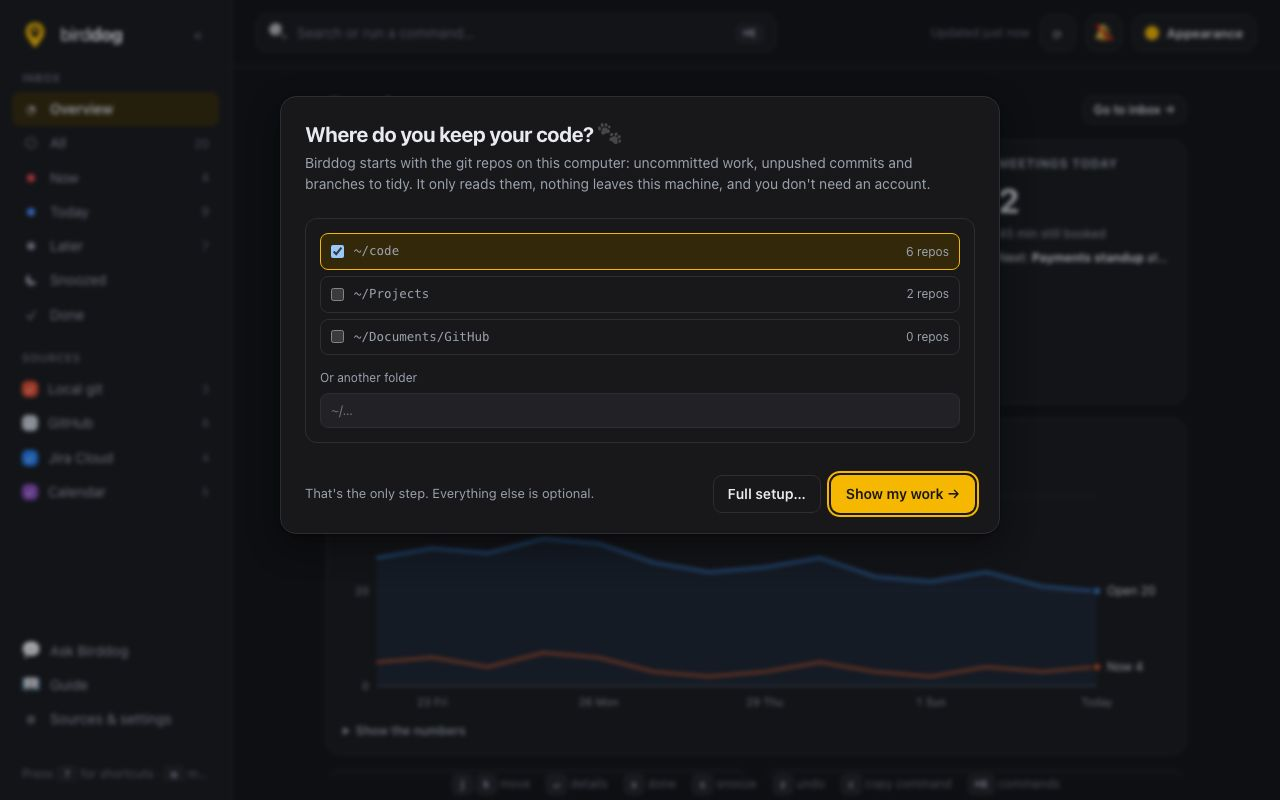
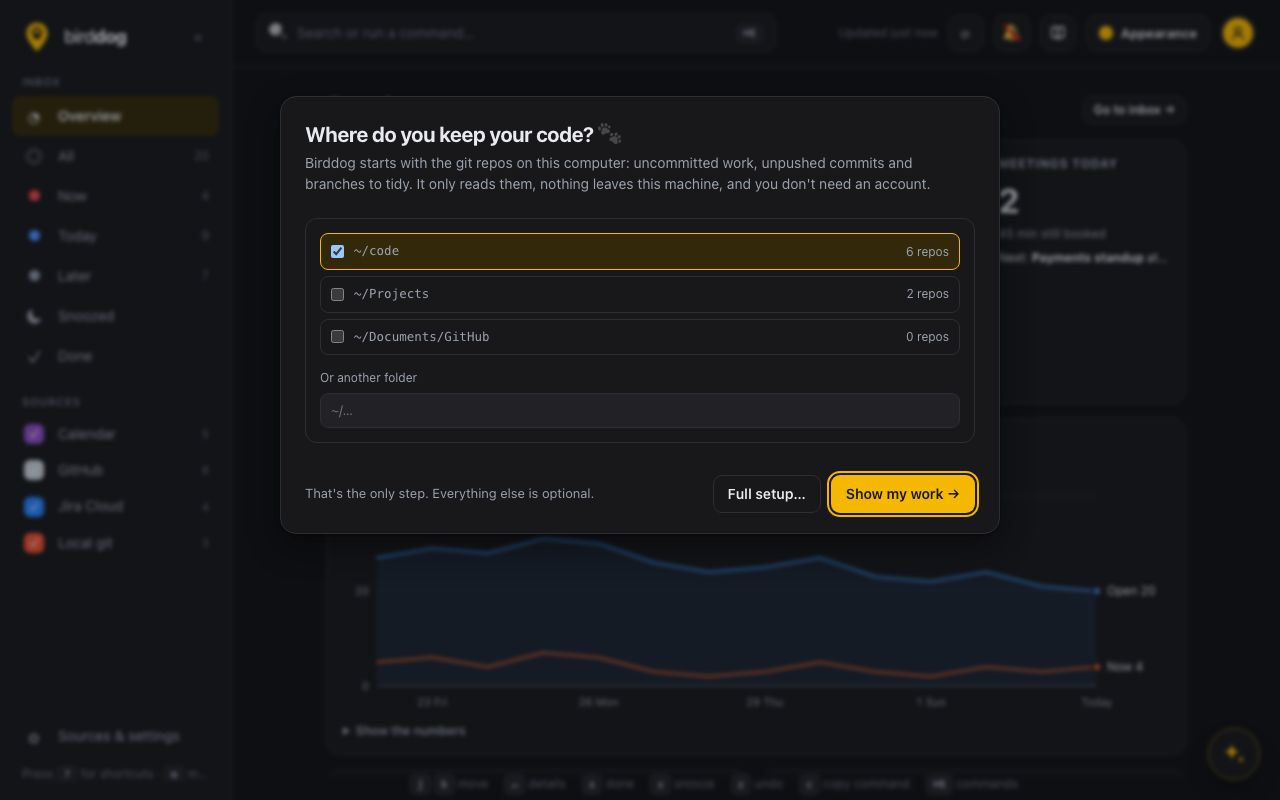
v1.10.0: Fetch, the floating chat assistant
- Ask Birddog becomes "Ask Fetch" (the dog that fetches answers) in the UI, guide, README,
  CHANGELOG, the system prompt and the demo's scripted replies. API routes and code identifiers stay.
- A round ✦ sparkle button (SVG, accent colour, every palette, light/dark) in the bottom-right
  corner, "Ask Fetch (a)", aria-expanded tracking the panel. The chat entry left the left rail.
- The chat opens as a 400×560 floating panel anchored bottom-right above the button; on phones
  (≤760px) it is a full-screen sheet. Consent/API-key flow, Confirm/Cancel, streaming and `a` unchanged.
- The button sits beside a docked guide, and hides while the floating guide or the item drawer
  covers that corner. The shortcut bar stops short of it, toasts rise above it on phones, and
  the page has bottom room so it never hides the last row.
- Guide screenshots regenerated (npm run screenshots, demo data only).

Checked with headless Chromium at 1440, 1100, 900 and 375px, light and dark, rail open/collapsed,
guide open/closed: no overlap with the shortcut bar, no page errors.

Decisions:
- The button stays visible (as the toggle) while the panel is open on desktop; on phones the
  sheet covers it and the header ✕ closes it.
- No drag-to-resize for the panel (marked optional); max-height follows the window.

diff --git a/public/js/chat.js b/public/js/chat.js
@@ -1,4 +1,4 @@
-// "Ask Birddog": the chat panel. The server talks to Claude; this streams the
+// "Ask Fetch": the chat panel. The server talks to Claude; this streams the
 // answer in, shows which inbox tools ran, and asks before any change.
 
 import { esc } from './format.js';
@@ -18,7 +18,8 @@ export function initChat(options) { ctx = options; }
 export async function openChat() {
   $('#chatPanel').classList.add('open');
   document.body.classList.add('chat-open');
-  if (!status) $('#chatPanel').innerHTML = '<header><div class="chat-title"><b>Ask Birddog</b></div><button class="icon-btn" data-chat="close" aria-label="Close chat">✕</button></header><div class="chat-body"><div class="msg-note">Loading…</div></div>';
+  $('#chatBtn')?.setAttribute('aria-expanded', 'true');
+  if (!status) $('#chatPanel').innerHTML = '<header><div class="chat-title"><b>Ask Fetch</b></div><button class="icon-btn" data-chat="close" aria-label="Close chat">✕</button></header><div class="chat-body"><div class="msg-note">Loading…</div></div>';
   try { status = await ctx.api.chatStatus(); } catch (err) { status = { enabled: false, error: err.message }; }
   render();
   $('#chatInput')?.focus();
@@ -26,6 +27,7 @@ export async function openChat() {
 export function closeChat() {
   $('#chatPanel')?.classList.remove('open');
   document.body.classList.remove('chat-open');
+  $('#chatBtn')?.setAttribute('aria-expanded', 'false');
 }
 export const toggleChat = () => (chatOpen() ? closeChat() : openChat());
 
@@ -48,15 +50,15 @@ const SUGGESTIONS = ['What needs me now?', 'What should I do first today?', "Wha
 function setupHTML() {
   const docker = !!status?.keyVariable;
   return `<div class="chat-setup">
-    <p><b>Ask questions about your inbox</b> ("what's blocking me?", "anything due tomorrow?"), and ask Birddog to mark things done or snooze them.</p>
-    <div class="chat-warn"><b>This sends inbox content to Anthropic.</b> To answer, Birddog sends your question and the items it looks up (titles, "why" lines, fields and links from git, GitHub, Jira and your calendar) to Anthropic's API, using your own API key. Nothing is sent until you turn this on, and you can turn it off any time.</div>
+    <p><b>Ask questions about your inbox</b> ("what's blocking me?", "anything due tomorrow?"), and ask Fetch to mark things done or snooze them. Fetch is Birddog's assistant: the dog that fetches answers.</p>
+    <div class="chat-warn"><b>This sends inbox content to Anthropic.</b> To answer, Fetch sends your question and the items it looks up (titles, "why" lines, fields and links from git, GitHub, Jira and your calendar) to Anthropic's API, using your own API key. Nothing is sent until you turn this on, and you can turn it off any time.</div>
     ${docker
     ? (status.hasKey ? `<div class="msg good">✓ API key from <code>${esc(status.keyFrom)}</code>.</div>` : `<div class="msg">Set <code>${esc(status.keyVariable)}</code> (or <code>${esc(status.keyVariable)}_FILE</code>) for this container and restart it.</div>`)
     : `<label class="field"><span>Anthropic API key · <a href="https://console.anthropic.com/settings/keys" target="_blank" rel="noopener noreferrer">get one ↗</a></span>
        <input id="chatKey" type="password" autocomplete="off" spellcheck="false" placeholder="${status?.hasKey ? `Saved in ${esc(status.keyFrom)} · leave blank to keep it` : 'sk-ant-…'}"></label>
        <div class="msg">The key is stored in your OS keychain, never in config.json, and never shown again.</div>`}
     <label class="chk"><input type="checkbox" id="chatConsent" ${consentChecked ? 'checked' : ''}><span>I understand that inbox content is sent to Anthropic</span></label>
-    <div class="row-btns"><button class="btn primary" data-chat="enable" ${busy ? 'disabled' : ''}>Turn on Ask Birddog</button></div>
+    <div class="row-btns"><button class="btn primary" data-chat="enable" ${busy ? 'disabled' : ''}>Turn on Ask Fetch</button></div>
     ${status?.error ? `<div class="msg bad">${esc(status.error)}</div>` : ''}
   </div>`;
 }
@@ -69,7 +71,7 @@ function entryHTML(e, i) {
   if (e.role === 'note') return `<div class="msg-note">${esc(e.text)}</div>`;
   if (e.role === 'confirm') {
     const done = e.state && e.state !== 'pending';
-    return `<div class="msg-confirm ${done ? 'answered' : ''}"><div class="lbl">Birddog wants to change your list</div><div>${esc(e.summary)}</div>
+    return `<div class="msg-confirm ${done ? 'answered' : ''}"><div class="lbl">Fetch wants to change your list</div><div>${esc(e.summary)}</div>
       ${done ? `<div class="msg">${e.state === 'yes' ? '✓ Confirmed' : '✕ Cancelled'}</div>` : `<div class="row-btns"><button class="btn primary small" data-chat-yes="${i}">Confirm</button><button class="btn small" data-chat-no="${i}">Cancel</button></div>`}</div>`;
   }
   return '';
@@ -84,7 +86,7 @@ function render() {
   const el = $('#chatPanel');
   if (!el) return;
   const on = status?.enabled;
-  el.innerHTML = `<header><div class="chat-title"><b>Ask Birddog</b>${on ? `<span class="chat-model">${status.demo ? 'demo: a scripted stand-in, not Claude' : esc(status.model)}</span>` : ''}</div>
+  el.innerHTML = `<header><div class="chat-title"><b>Ask Fetch</b>${on ? `<span class="chat-model">${status.demo ? 'demo: a scripted stand-in, not Claude' : esc(status.model)}</span>` : ''}</div>
       ${on ? '<button class="icon-btn" data-chat="new" title="New conversation" aria-label="New conversation">＋</button>' : ''}
       <button class="icon-btn" data-chat="close" aria-label="Close chat">✕</button></header>
     <div class="chat-body" id="chatBody">${on
@@ -187,7 +189,7 @@ export async function onChatEvent(e) {
     e.preventDefault();
     status = await ctx.api.chatOff().catch((err) => ({ ...status, error: err.message }));
     sessionId = null; log.length = 0; consentChecked = false;
-    ctx.toast('Ask Birddog is off. The API key was removed.');
+    ctx.toast('Ask Fetch is off. The API key was removed.');
     render();
     return true;
   }
@@ -195,7 +197,7 @@ export async function onChatEvent(e) {
     busy = true; render();
     try {
       status = await ctx.api.chatSetup({ apiKey: $('#chatKey')?.value ?? '', consent: consentChecked });
-      ctx.toast('✓ Ask Birddog is on');
+      ctx.toast('✓ Ask Fetch is on');
     } catch (err) {
       status = { ...status, error: err.message };
     }

diff --git a/public/index.html b/public/index.html
@@ -33,7 +33,6 @@
     </div>
     <div class="rail-foot">
       <nav class="nav" aria-label="Tools">
-        <button id="chatBtn" title="Ask Birddog (a)" aria-label="Ask Birddog"><span class="ico" aria-hidden="true">💬</span><span class="rl">Ask Birddog</span><kbd class="hint">a</kbd></button>
         <button id="openSetup" title="Sources and settings" aria-label="Sources and settings"><span class="ico" aria-hidden="true">⚙</span><span class="rl">Sources &amp; settings</span></button>
       </nav>
       <div class="rl rail-hint">Press <kbd>?</kbd> for shortcuts · <kbd>m</kbd> menu</div>
@@ -61,7 +60,8 @@
 <div class="keybar" aria-hidden="true"><span><kbd>j</kbd> <kbd>k</kbd> move</span><span><kbd>↵</kbd> details</span><span><kbd>x</kbd> done</span><span><kbd>s</kbd> snooze</span><span><kbd>z</kbd> undo</span><span><kbd>c</kbd> copy command</span><span><kbd>⌘K</kbd> commands</span></div>
 
 <aside class="drawer" id="drawer" aria-label="Item details"></aside>
-<aside class="drawer chat" id="chatPanel" aria-label="Ask Birddog"></aside>
+<aside class="drawer chat" id="chatPanel" role="dialog" aria-label="Ask Fetch"></aside>
+<button class="fetch-fab" id="chatBtn" title="Ask Fetch (a)" aria-label="Ask Fetch (a)" aria-controls="chatPanel" aria-expanded="false"><svg viewBox="0 0 24 24" aria-hidden="true"><path d="M10 2.5c.5 4.6 2.9 7 7.5 7.5-4.6.5-7 2.9-7.5 7.5-.5-4.6-2.9-7-7.5-7.5 4.6-.5 7-2.9 7.5-7.5z"/><path d="M18.5 13.5c.25 2.2 1.3 3.25 3.5 3.5-2.2.25-3.25 1.3-3.5 3.5-.25-2.2-1.3-3.25-3.5-3.5 2.2-.25 3.25-1.3 3.5-3.5z"/></svg></button>
 <div class="snooze" id="snooze" role="menu"></div>
 
 <div class="scrim" id="paletteScrim"><div class="modal palette" role="dialog" aria-label="Command palette"><input id="pInput" placeholder="Type a command or search items…" autocomplete="off" spellcheck="false"><ul id="pList" role="listbox"></ul></div></div>
@@ -75,7 +75,7 @@
   <div>Toggle light / dark <kbd>t</kbd></div><div>Next theme <kbd>p</kbd></div>
   <div>Switch view <span><kbd>1</kbd>–<kbd>6</kbd></span></div><div>Close <kbd>esc</kbd></div>
   <div>Restore (Done / Snoozed) <kbd>u</kbd></div><div>This sheet <kbd>?</kbd></div>
-  <div>Ask Birddog <kbd>a</kbd></div><div>Guide <kbd>g</kbd></div><div>Widen the guide <kbd>⇧G</kbd></div>
+  <div>Ask Fetch <kbd>a</kbd></div><div>Guide <kbd>g</kbd></div><div>Widen the guide <kbd>⇧G</kbd></div>
   <div>Overview <kbd>0</kbd></div><div>Menu <kbd>m</kbd></div>
 </div></div></div>
 

diff --git a/public/css/birddog.css b/public/css/birddog.css
@@ -574,3 +574,25 @@ body.guide-open.guide-wide .keybar{display:none}
 .acct-items button:hover,.acct-items button:focus-visible{background:var(--panel-2);outline:none}
 .acct-items kbd{font-size:11px}
 @media (max-width:520px){.search kbd{display:none}.search{min-width:0;overflow:hidden}.search span:nth-child(2){overflow:hidden;text-overflow:ellipsis;white-space:nowrap}}
+
+/* Fetch: the floating chat assistant, bottom right */
+.fetch-fab{position:fixed;right:calc(var(--guide-w,0px) + 20px);bottom:20px;width:52px;height:52px;border-radius:50%;border:1px solid color-mix(in srgb,var(--accent) 45%,var(--line));background:var(--panel);color:var(--accent);display:grid;place-items:center;box-shadow:var(--shadow);z-index:23;cursor:pointer;transition:transform .15s ease,border-color .15s}
+.fetch-fab:hover{transform:translateY(-2px);border-color:var(--accent)}
+.fetch-fab svg{width:26px;height:26px;fill:currentColor}
+.fetch-fab[aria-expanded="true"]{background:var(--accent-soft);border-color:var(--accent)}
+/* The details drawer and floating guide own the right edge while they're open. */
+#drawer.open ~ .fetch-fab{display:none}
+@media (max-width:1199px){body.guide-open:not(.rail-collapsed) .fetch-fab{display:none}}
+@media (max-width:1059px){body.guide-open .fetch-fab{display:none}}
+.drawer.chat{top:auto;left:auto;right:calc(var(--guide-w,0px) + 20px);bottom:84px;width:400px;height:560px;max-width:calc(100vw - 40px);max-height:calc(100vh - 110px);border:1px solid var(--line);border-radius:16px;overflow:hidden;transform:translateY(12px) scale(.98);opacity:0;transform-origin:bottom right;transition:transform .18s ease,opacity .18s ease,visibility .18s}
+.drawer.chat.open{transform:none;opacity:1}
+.chat .chat-title b::before{content:"✦ ";color:var(--accent)}
+/* Keep the shortcut bar and toasts clear of the button. */
+.keybar{right:calc(var(--guide-w,0px) + 84px)}
+@media (max-width:760px){
+  .toast{bottom:84px}
+  .drawer.chat{inset:0;width:auto;height:auto;max-width:none;max-height:none;border-radius:0;border:0}
+  body.chat-open .fetch-fab{display:none}
+}
+@media (prefers-reduced-motion:reduce){.drawer.chat,.fetch-fab{transition:none}}
+.content{padding-bottom:96px}@media (max-width:760px){.content{padding-bottom:96px}}

diff --git a/public/js/app.js b/public/js/app.js
@@ -507,11 +507,11 @@ function commands() {
     { label: 'Toggle dark / light', k: 't', run: () => toggleTheme() },
     { label: 'Appearance…', run: openAppear },
     { label: 'Notifications…', run: () => toggleNotifyPanel() },
-    { label: 'Ask Birddog…', k: 'a', run: () => toggleChat() },
+    { label: 'Ask Fetch (chat)…', k: 'a', run: () => toggleChat() },
     { label: guideOpen() ? 'Hide the guide' : 'Open the guide', k: 'g', run: () => toggleGuide() },
     { label: guideWide() ? 'Narrow the guide' : 'Widen the guide', k: 'G', run: () => { if (!guideOpen()) openGuide(); toggleGuideWide(); } },
     { label: document.body.classList.contains('rail-collapsed') ? 'Expand the menu' : 'Collapse the menu', k: 'm', run: () => toggleRail() },
-    ...[['start', 'Getting started'], ['sources', 'Sources'], ['notifications', 'Notifications'], ['chat', 'Ask Birddog'], ['docker', 'Docker'], ['mcp', 'MCP']].map(([id, t]) => ({ label: `Guide: ${t}`, run: () => openGuide(id) })),
+    ...[['start', 'Getting started'], ['sources', 'Sources'], ['notifications', 'Notifications'], ['chat', 'Ask Fetch'], ['docker', 'Docker'], ['mcp', 'MCP']].map(([id, t]) => ({ label: `Guide: ${t}`, run: () => openGuide(id) })),
     ...Object.entries(PALETTE_NAMES).map(([p, n]) => ({ label: `Theme: ${n}`, run: () => setPalette(p) })),
     { label: 'Mode: follow system', run: () => setMode('system') },
     { label: 'Connect a source…', run: () => openSetup() },
@@ -1246,7 +1246,7 @@ window.addEventListener('resize', () => { clearTimeout(resizeTimer); resizeTimer
 $('#openSetup').onclick = () => { closeMobileRail(); openSetup(); };
 $('#refresh').onclick = refresh;
 $('#appearBtn').onclick = (e) => { e.stopPropagation(); appearOpen() ? closeAppear() : openAppear(); };
-$('#chatBtn').onclick = () => { closeMobileRail(); toggleChat(); };
+$('#chatBtn').onclick = () => toggleChat();
 $('#railToggle').onclick = () => toggleRail();
 $('#menuBtn').onclick = () => openMobileRail();
 $('#railScrim').onclick = () => closeMobileRail();

diff --git a/public/js/guide.js b/public/js/guide.js
@@ -75,7 +75,7 @@ export const SECTIONS = [
       <tr><td>${keys('c')} ${keys('o')}</td><td>Copy the next-step command, open the link</td></tr>
       <tr><td>${keys('0')}</td><td>Overview</td></tr>
       <tr><td>${keys('1')}–${keys('6')}</td><td>All, Now, Today, Later, Snoozed, Done</td></tr>
-      <tr><td>${keys('a')}</td><td>Ask Birddog</td></tr>
+      <tr><td>${keys('a')}</td><td>Ask Fetch</td></tr>
       <tr><td>${keys('g')}</td><td>This guide</td></tr>
       <tr><td>${keys('⇧G')}</td><td>Widen or narrow this guide (or drag its left edge)</td></tr>
       <tr><td>${keys('m')}</td><td>Show or hide the menu</td></tr>
@@ -96,9 +96,9 @@ export const SECTIONS = [
       </ul>`,
   },
   {
-    id: 'chat', title: 'Ask Birddog (chat)', words: 'chat ask claude anthropic api key question assistant ai',
-    html: `${shot('chat', 'Ask Birddog answering "What needs me now?" from the inbox')}
-      <p>Press ${keys('a')} and ask in plain words: <i>What needs me now? What's due tomorrow? Which PRs need work?</i> Birddog answers from your own items, and can mark things done or snooze them. It always asks you to <b>Confirm</b> first.</p>
+    id: 'chat', title: 'Ask Fetch (chat)', words: 'chat ask claude anthropic api key question assistant ai',
+    html: `${shot('chat', 'Ask Fetch answering "What needs me now?" from the inbox')}
+      <p>Press ${keys('a')}, or the ✦ button in the bottom-right corner, and ask in plain words: <i>What needs me now? What's due tomorrow? Which PRs need work?</i> <b>Fetch</b>, Birddog's assistant (the dog that fetches answers), replies from your own items, and can mark things done or snooze them. It always asks you to <b>Confirm</b> first.</p>
       <p><b>Before you turn it on:</b> answers come from Claude, through your own Anthropic API key, and your question plus the items it looks up (titles, "why" lines, fields, links) are sent to Anthropic. It stays off until you add a key and agree to that. <b>Turn off</b> forgets the key.</p>`,
   },
   {

diff --git a/README.md b/README.md
@@ -151,7 +151,7 @@ If `BIRDDOG_REPOS` points to a folder that doesn't exist, Docker creates an empt
 | GitHub token | `GITHUB_TOKEN` (or `GH_TOKEN`) | `GITHUB_TOKEN_FILE=/run/secrets/github` |
 | Jira API token | `BIRDDOG_JIRA_TOKEN` | `BIRDDOG_JIRA_TOKEN_FILE` |
 | Calendar iCal link | `BIRDDOG_CAL_URL` | `BIRDDOG_CAL_URL_FILE` |
-| Anthropic API key (Ask Birddog) | `ANTHROPIC_API_KEY` | `ANTHROPIC_API_KEY_FILE` |
+| Anthropic API key (Ask Fetch) | `ANTHROPIC_API_KEY` | `ANTHROPIC_API_KEY_FILE` |
 | OIDC client secret (login) | `BIRDDOG_OIDC_CLIENT_SECRET` | `BIRDDOG_OIDC_CLIENT_SECRET_FILE` |
 | Session signing key (login) | `BIRDDOG_SESSION_KEY` | `BIRDDOG_SESSION_KEY_FILE` |
 
@@ -467,7 +467,7 @@ The menu on the left holds everything:
 - **Overview**
 - the **inbox** views (All, Now, Today, Later, Snoozed, Done)
 - your **sources** (click one to hide or show its items)
-- **Ask Birddog**, the **Guide**, and **Sources & settings**
+- **Ask Fetch**, the **Guide**, and **Sources & settings**
 
 Collapse it to icons with « or `m`. Counts stay visible as small badges (Now in red), and every icon keeps its name as a tooltip and for screen readers. Birddog remembers which way you left it. On a phone it becomes a drawer behind ☰. It fits beside the guide rail: with both open, the page in the middle keeps at least ~640px on wide screens, and on narrower ones the guide floats over the page instead.
 
@@ -493,11 +493,11 @@ Birddog opens on an **Overview**: one look at what your day is like. The inbox i
 
 The charts are plain SVG drawn by Birddog (no chart library). Hover, or move to a mark with the keyboard, to see its numbers; every chart also has **Show the numbers** with the same data as a table. Chart colors are a colorblind-checked set (orange = Now, blue = Today and open items, aqua = Later), stepped separately for light and dark, so they read the same in all three palettes.
 
-## Ask Birddog (chat)
+## Ask Fetch (chat)
 
-Press **💬 Ask** (or `a`) and ask about your inbox in plain words: *What needs me now? What's blocking me? Anything due tomorrow? Which of my PRs need work?* Birddog answers from your own items and can mark things done or snooze them.
+Press the **✦** button in the bottom-right corner (or `a`) to ask **Fetch**, Birddog's assistant (the dog that fetches answers), about your inbox in plain words: *What needs me now? What's blocking me? Anything due tomorrow? Which of my PRs need work?* Fetch answers from your own items and can mark things done or snooze them.
 
-- **Off until you turn it on.** It needs your own [Anthropic API key](https://console.anthropic.com/settings/keys), and you have to tick **"I understand that inbox content is sent to Anthropic"** first. To answer, Birddog sends your question and the items it looks up (titles, "why" lines, fields, links) to Anthropic's API. Nothing is sent before you turn it on. **Turn off** forgets the key.
+- **Off until you turn it on.** It needs your own [Anthropic API key](https://console.anthropic.com/settings/keys), and you have to tick **"I understand that inbox content is sent to Anthropic"** first. To answer, Fetch sends your question and the items it looks up (titles, "why" lines, fields, links) to Anthropic's API. Nothing is sent before you turn it on. **Turn off** forgets the key.
 - **Your key stays in your keychain** (`anthropic-api-key`), or in `ANTHROPIC_API_KEY` in Docker. It never goes into config.json, API responses or logs.
 - **It uses Birddog's own MCP tools.** The model reads with `list_items`, `get_item` and `list_sources`, and the panel shows which ones ran. Tool inputs are checked against their schemas before anything runs.
 - **It asks before it changes anything.** `mark_done`, `snooze` and `restore` stop the answer and show a **Confirm / Cancel** card. Only Birddog's own list changes, never GitHub, Jira or git.
@@ -542,7 +542,7 @@ All of it lives in `~/.config/birddog/state.json`, along with your theme.
 | `r` | refresh | `/` or `⌘K` | command palette |
 | `0` | Overview | `?` | shortcuts |
 | `g` | guide | `m` | collapse / expand the menu |
-| `1`–`6` | All / Now / Today / Later / Snoozed / Done | `a` | Ask Birddog |
+| `1`–`6` | All / Now / Today / Later / Snoozed / Done | `a` | Ask Fetch |
 | `t` | light / dark | `p` | next theme |
 
 ## Themes
@@ -719,7 +719,7 @@ The UI talks to a small JSON API on the same port. It answers only on `localhost
 | `POST` | `/api/oauth/:provider/start` | the provider URL to send the browser to (`google`, `microsoft`, `atlassian`) |
 | `DELETE` | `/api/oauth/:provider` | sign out: forget (and where possible revoke) the tokens |
 | `GET` | `/api/history?days=14` | one row per day: open, now, today, later, done |
-| `GET` | `/api/chat/status` | whether Ask Birddog is on, and where the key comes from (never the key) |
+| `GET` | `/api/chat/status` | whether Ask Fetch is on, and where the key comes from (never the key) |
 | `POST` / `DELETE` | `/api/chat/setup` | `{ "apiKey": "…", "consent": true }` turns it on; `DELETE` turns it off and forgets the key |
 | `POST` | `/api/chat` | `{ "sessionId"?, "message" }`: streams NDJSON events (`text`, `tool`, `confirm`, `error`, `done`) |
 | `POST` | `/api/chat/confirm` | `{ "sessionId", "decisions": { "<id>": true } }`: answers pending changes, then streams the rest |
@@ -784,7 +784,7 @@ docker-compose.yml     the dashboard on a volume, plus a demo profile
 .github/workflows/     CI: tests on Node 22 and 24, and inside the image
 src/mcp.mjs            MCP server (JSON-RPC over stdio)
 src/notify.mjs         notifications: what's news, filters, quiet hours, system notifications
-src/chat.mjs           Ask Birddog: Claude Messages API over fetch, MCP tools, confirm-before-change
+src/chat.mjs           Ask Fetch: Claude Messages API over fetch, MCP tools, confirm-before-change
 src/history.mjs        the small per-day history behind the overview chart
 public/js/overview.js  the overview page: hand-rolled SVG charts and dials
 public/js/guide.js     the user guide rail (content and search)
@@ -803,10 +803,11 @@ test/                  node:test suites
 3. ✅ Setup wizard, calendar (iCal) source, hardened keychain secrets, stale-source retry and backoff
 4. ✅ MCP server, demo mode, `npx @marcusferrell/birddog` release
 5. ✅ Docker image, Compose file, CI that runs the tests in the image
-6. ✅ Notifications, Ask Birddog chat, Overview charts, in-app guide, collapsible menu (1.2–1.6)
+6. ✅ Notifications, Ask Fetch chat, Overview charts, in-app guide, collapsible menu (1.2–1.6)
 7. ✅ Real sign-ins: Google, Microsoft, Atlassian, iCloud CalDAV, Sign in with Apple (1.7)
 8. ✅ GitLab, Linear, Azure DevOps, Sentry, PagerDuty, Slack, GitHub Actions and Dependabot (1.8)
 9. ✅ One-step first run (1.9)
+10. ✅ Sources A–Z with search, top-right account menu, Fetch the floating assistant (1.10)
 
 Ideas for later: Bitbucket Cloud, a "focus" view that hides Later.
 

diff --git a/CHANGELOG.md b/CHANGELOG.md
@@ -10,6 +10,13 @@ All notable changes to Birddog. The format follows [Keep a Changelog](https://ke
 ### Changed
 - Bigger icons in the main menu, especially when it's collapsed to icons (the collapsed menu is a little wider to fit them).
 
+## [1.10.0] - 2026-11-04
+
+### Changed
+- **Sources A–Z, with search.** Every list of sources is sorted by name (Sources & settings, the left rail, the setup wizard, ⌘K). Sources & settings has a search box that matches names and kinds of thing (*calendar*, *tickets*, *ci*), with an "N of M" count; Esc clears it.
+- **Top-right menu.** The Guide (book icon, `g`) and an account avatar now sit at the right of the top bar. The avatar's menu shows who you're signed in as, Sources & settings, Appearance, keyboard shortcuts, and Sign out when login is on. Both left the left rail.
+- **Ask Birddog is now "Ask Fetch"**, Birddog's assistant (the dog that fetches answers). It opens from a ✦ sparkle button in the bottom-right corner (or `a`) as a floating panel; on phones it's a full-screen sheet. The button steps aside for a docked guide and hides while the guide or the item drawer covers that corner. The shortcut bar and toasts keep clear of it. The API, consent flow, Confirm/Cancel and streaming are unchanged, and the demo's scripted replies speak as Fetch.
+
 ## [1.9.0] - 2026-11-04
 
 ### Changed
@@ -155,7 +162,8 @@ All notable changes to Birddog. The format follows [Keep a Changelog](https://ke
 - Ranked, keyboard-first inbox where every item explains why it's there; done, snooze and undo; three themes in light and dark.
 - Optional OpenID Connect login for the dashboard, GitHub sign-in (gh CLI or device flow), and OS keychain secrets.
 
-[1.9.0]: https://github.com/marcsalot/birddog/compare/619b986...main
+[1.10.0]: https://github.com/marcsalot/birddog/compare/7a6d029...main
+[1.9.0]: https://github.com/marcsalot/birddog/compare/619b986...7a6d029
 [1.8.0]: https://github.com/marcsalot/birddog/compare/ac18fb3...619b986
 [1.7.0]: https://github.com/marcsalot/birddog/compare/45bcfde...ac18fb3
 [1.6.0]: https://github.com/marcsalot/birddog/compare/0b78f3b...45bcfde
